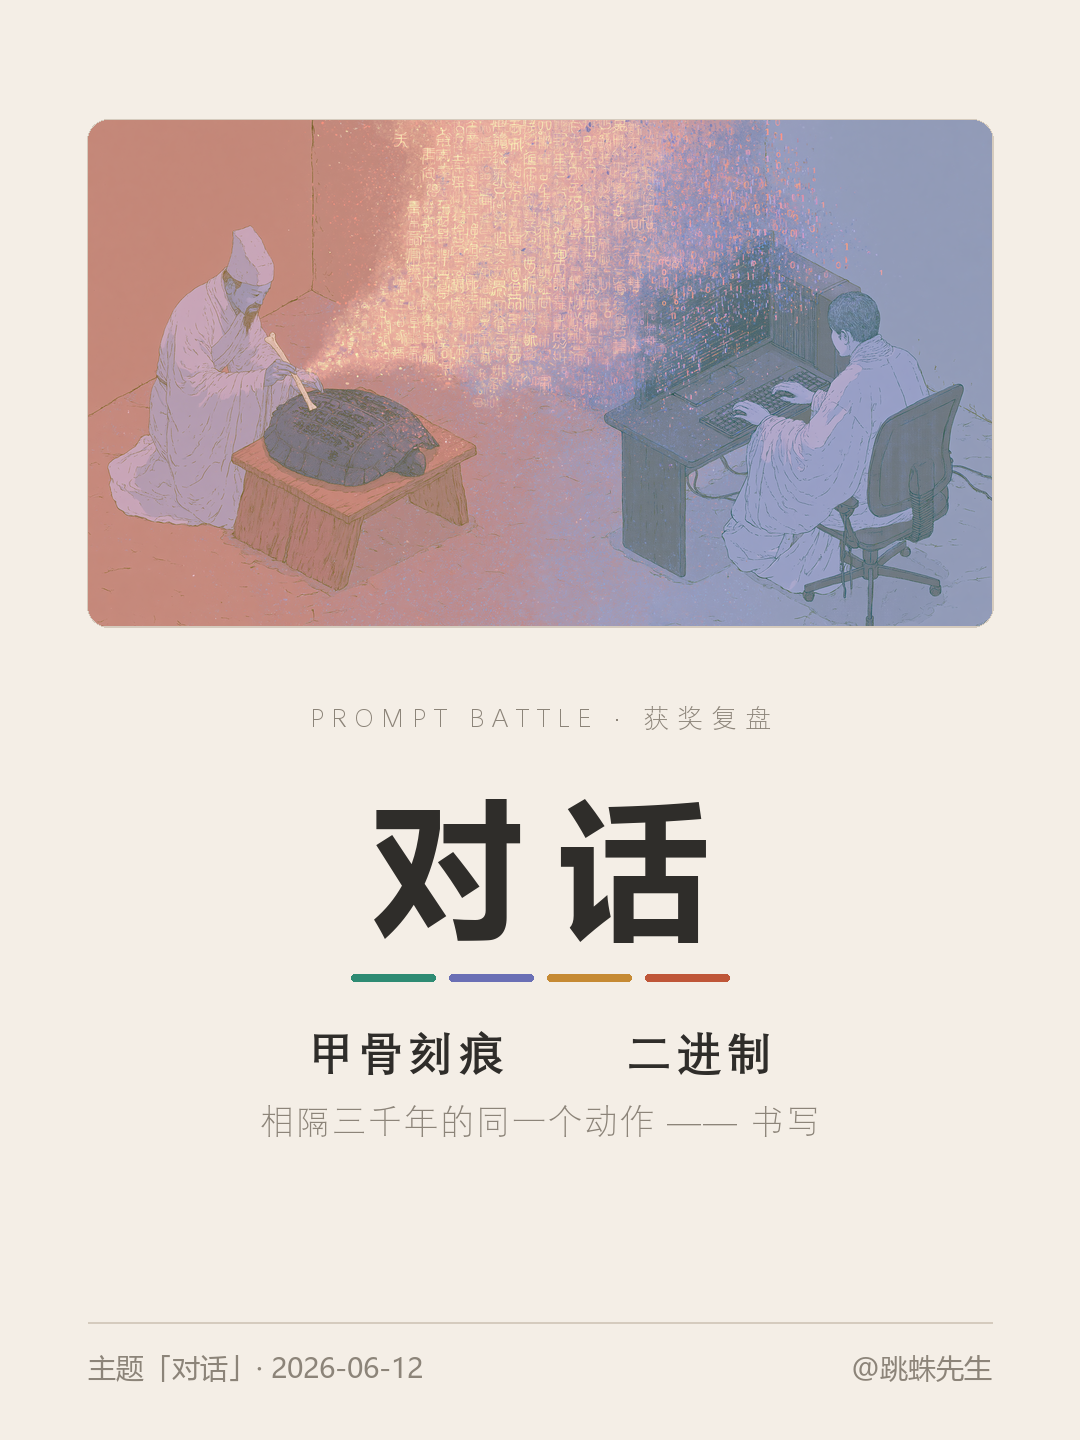
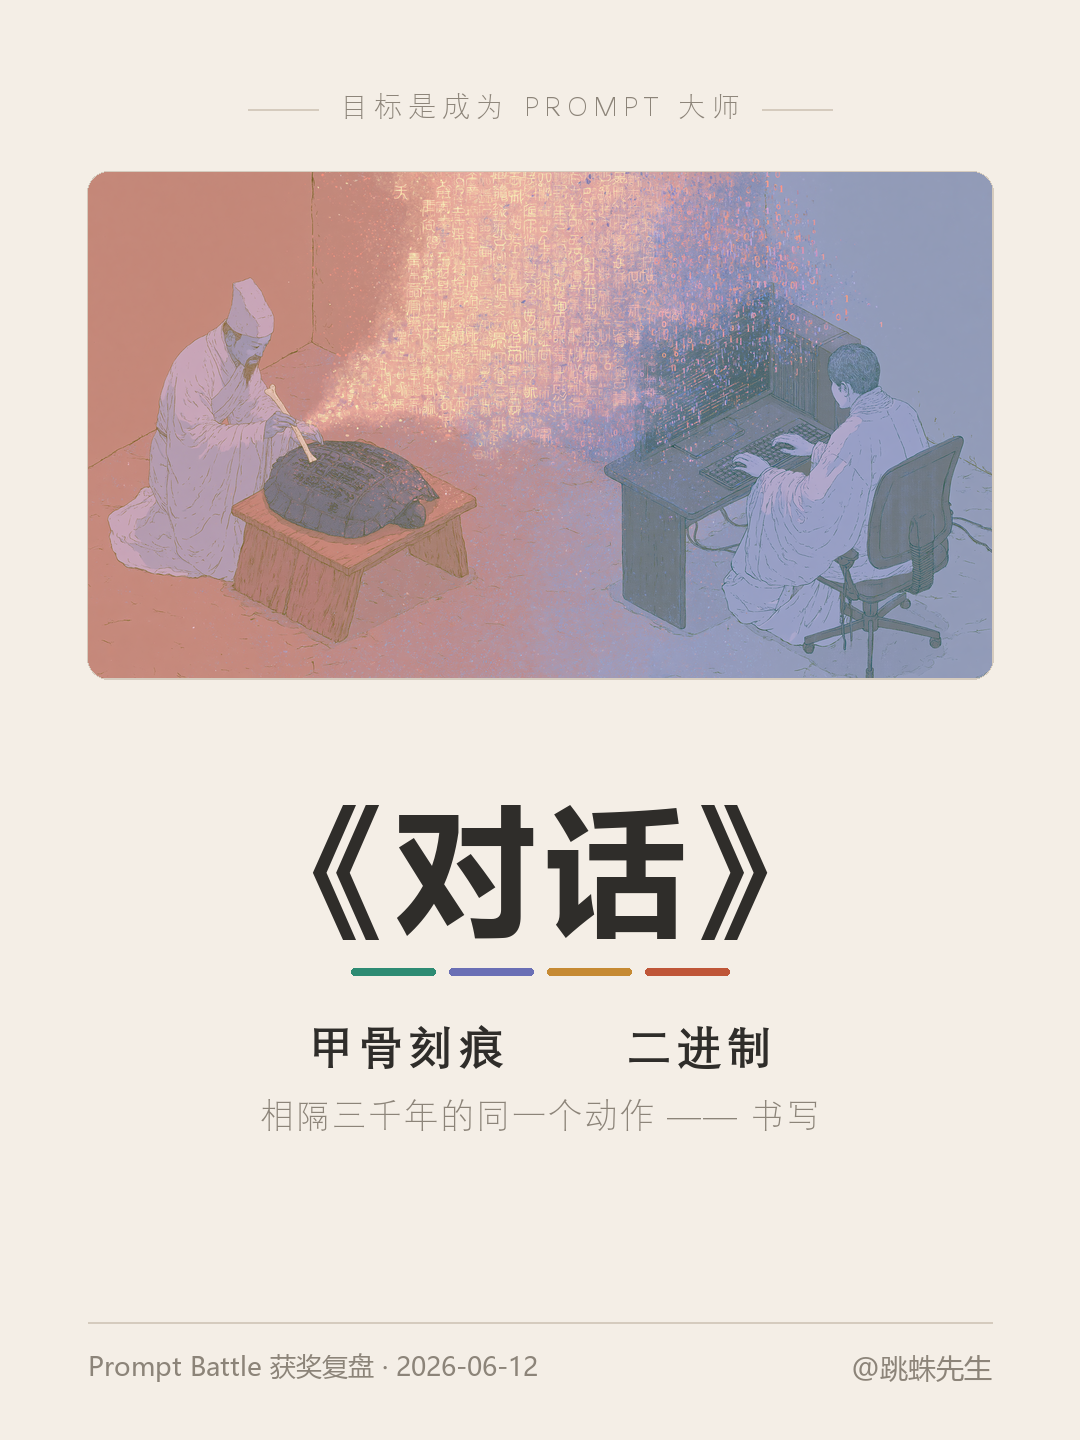
改版:小红书卡片升级为系列款《目标是成为 Prompt 大师》
- 两卡顶部加统一系列刊头「目标是成为 PROMPT 大师」
- 主标题改为《对话》

diff --git a/03_prompt模板库/02_案例复盘/assets/_build_cards.py b/03_prompt模板库/02_案例复盘/assets/_build_cards.py
@@ -95,6 +95,25 @@ def draw_annotated(d, segments, x0, y0, max_w, fnt, line_h, ul_dy=8, ul_w=4):
         x += ww + space_w
     return y + line_h
 
+def series_tag(d, y, fsize=28, line_len=70):
+    """系列刊头:两侧细线 + 居中系列名。"""
+    label = "目标是成为 PROMPT 大师"
+    f = deng(fsize)
+    tracking = 6
+    widths = [d.textlength(ch, font=f) for ch in label]
+    tw = sum(widths) + tracking * (len(label) - 1)
+    gap = 22
+    block = line_len + gap + tw + gap + line_len
+    x = (W - block) / 2
+    cy = y + fsize * 0.62
+    d.line([(x, cy), (x + line_len, cy)], fill=HAIR, width=2)
+    tx = x + line_len + gap
+    for ch, wch in zip(label, widths):
+        d.text((tx, y), ch, font=f, fill=MUTED)
+        tx += wch + tracking
+    rx = x + line_len + gap + tw + gap
+    d.line([(rx, cy), (rx + line_len, cy)], fill=HAIR, width=2)
+
 # ============================================================
 # 卡片 1 · 封面
 # ============================================================
@@ -102,20 +121,16 @@ def card_cover(path):
     c = Image.new("RGB", (W, H), BG)
     d = ImageDraw.Draw(c)
 
-    img_bottom = place_image(c, box_w=W - MARGIN*2, top=120, radius=20)
+    series_tag(d, 92)
+    img_bottom = place_image(c, box_w=W - MARGIN*2, top=172, radius=20)
 
-    # kicker
-    ky = img_bottom + 78
-    text_tracking(d, (0, ky), "PROMPT BATTLE · 获奖复盘", deng(26), MUTED,
-                  tracking=8, anchor_center=W)
-
-    # 大标题「对话」
-    ty = ky + 60
-    title_f = msyhb(150)
-    text_tracking(d, (0, ty), "对话", title_f, INK, tracking=36, anchor_center=W)
+    # 主标题《对话》
+    ty = img_bottom + 94
+    title_f = msyhb(140)
+    text_tracking(d, (0, ty), "《对话》", title_f, INK, tracking=10, anchor_center=W)
 
     # 四色短线(题意:四层)
-    ly = ty + 210
+    ly = ty + 196
     seg_w, gap = 84, 14
     total = seg_w*4 + gap*3
     sx = (W - total) // 2
@@ -133,7 +148,7 @@ def card_cover(path):
 
     # 底注
     d.line([(MARGIN, H-118), (W-MARGIN, H-118)], fill=HAIR, width=2)
-    d.text((MARGIN, H-92), "主题「对话」· 2026-06-12", font=msyh(28), fill=MUTED)
+    d.text((MARGIN, H-92), "Prompt Battle 获奖复盘 · 2026-06-12", font=msyh(26), fill=MUTED)
     handle = "@跳蛛先生"
     hw = d.textlength(handle, font=msyh(28))
     d.text((W-MARGIN-hw, H-92), handle, font=msyh(28), fill=MUTED)
@@ -148,12 +163,13 @@ def card_breakdown(path):
     c = Image.new("RGB", (W, H), BG)
     d = ImageDraw.Draw(c)
 
+    series_tag(d, 64, fsize=24, line_len=56)
     # 标题
-    d.text((MARGIN, 80), "获奖 prompt", font=msyhb(56), fill=INK)
-    d.text((MARGIN, 154), "四层拆解 · 哪些动了,哪些没动", font=deng(31), fill=MUTED)
+    d.text((MARGIN, 122), "《对话》· prompt 拆解", font=msyhb(50), fill=INK)
+    d.text((MARGIN, 192), "四层标注 · 哪些动了,哪些没动", font=deng(30), fill=MUTED)
 
     # 小图
-    img_bottom = place_image(c, box_w=560, top=222, radius=16)
+    img_bottom = place_image(c, box_w=520, top=252, radius=16)
 
     # 图例
     ly = img_bottom + 42